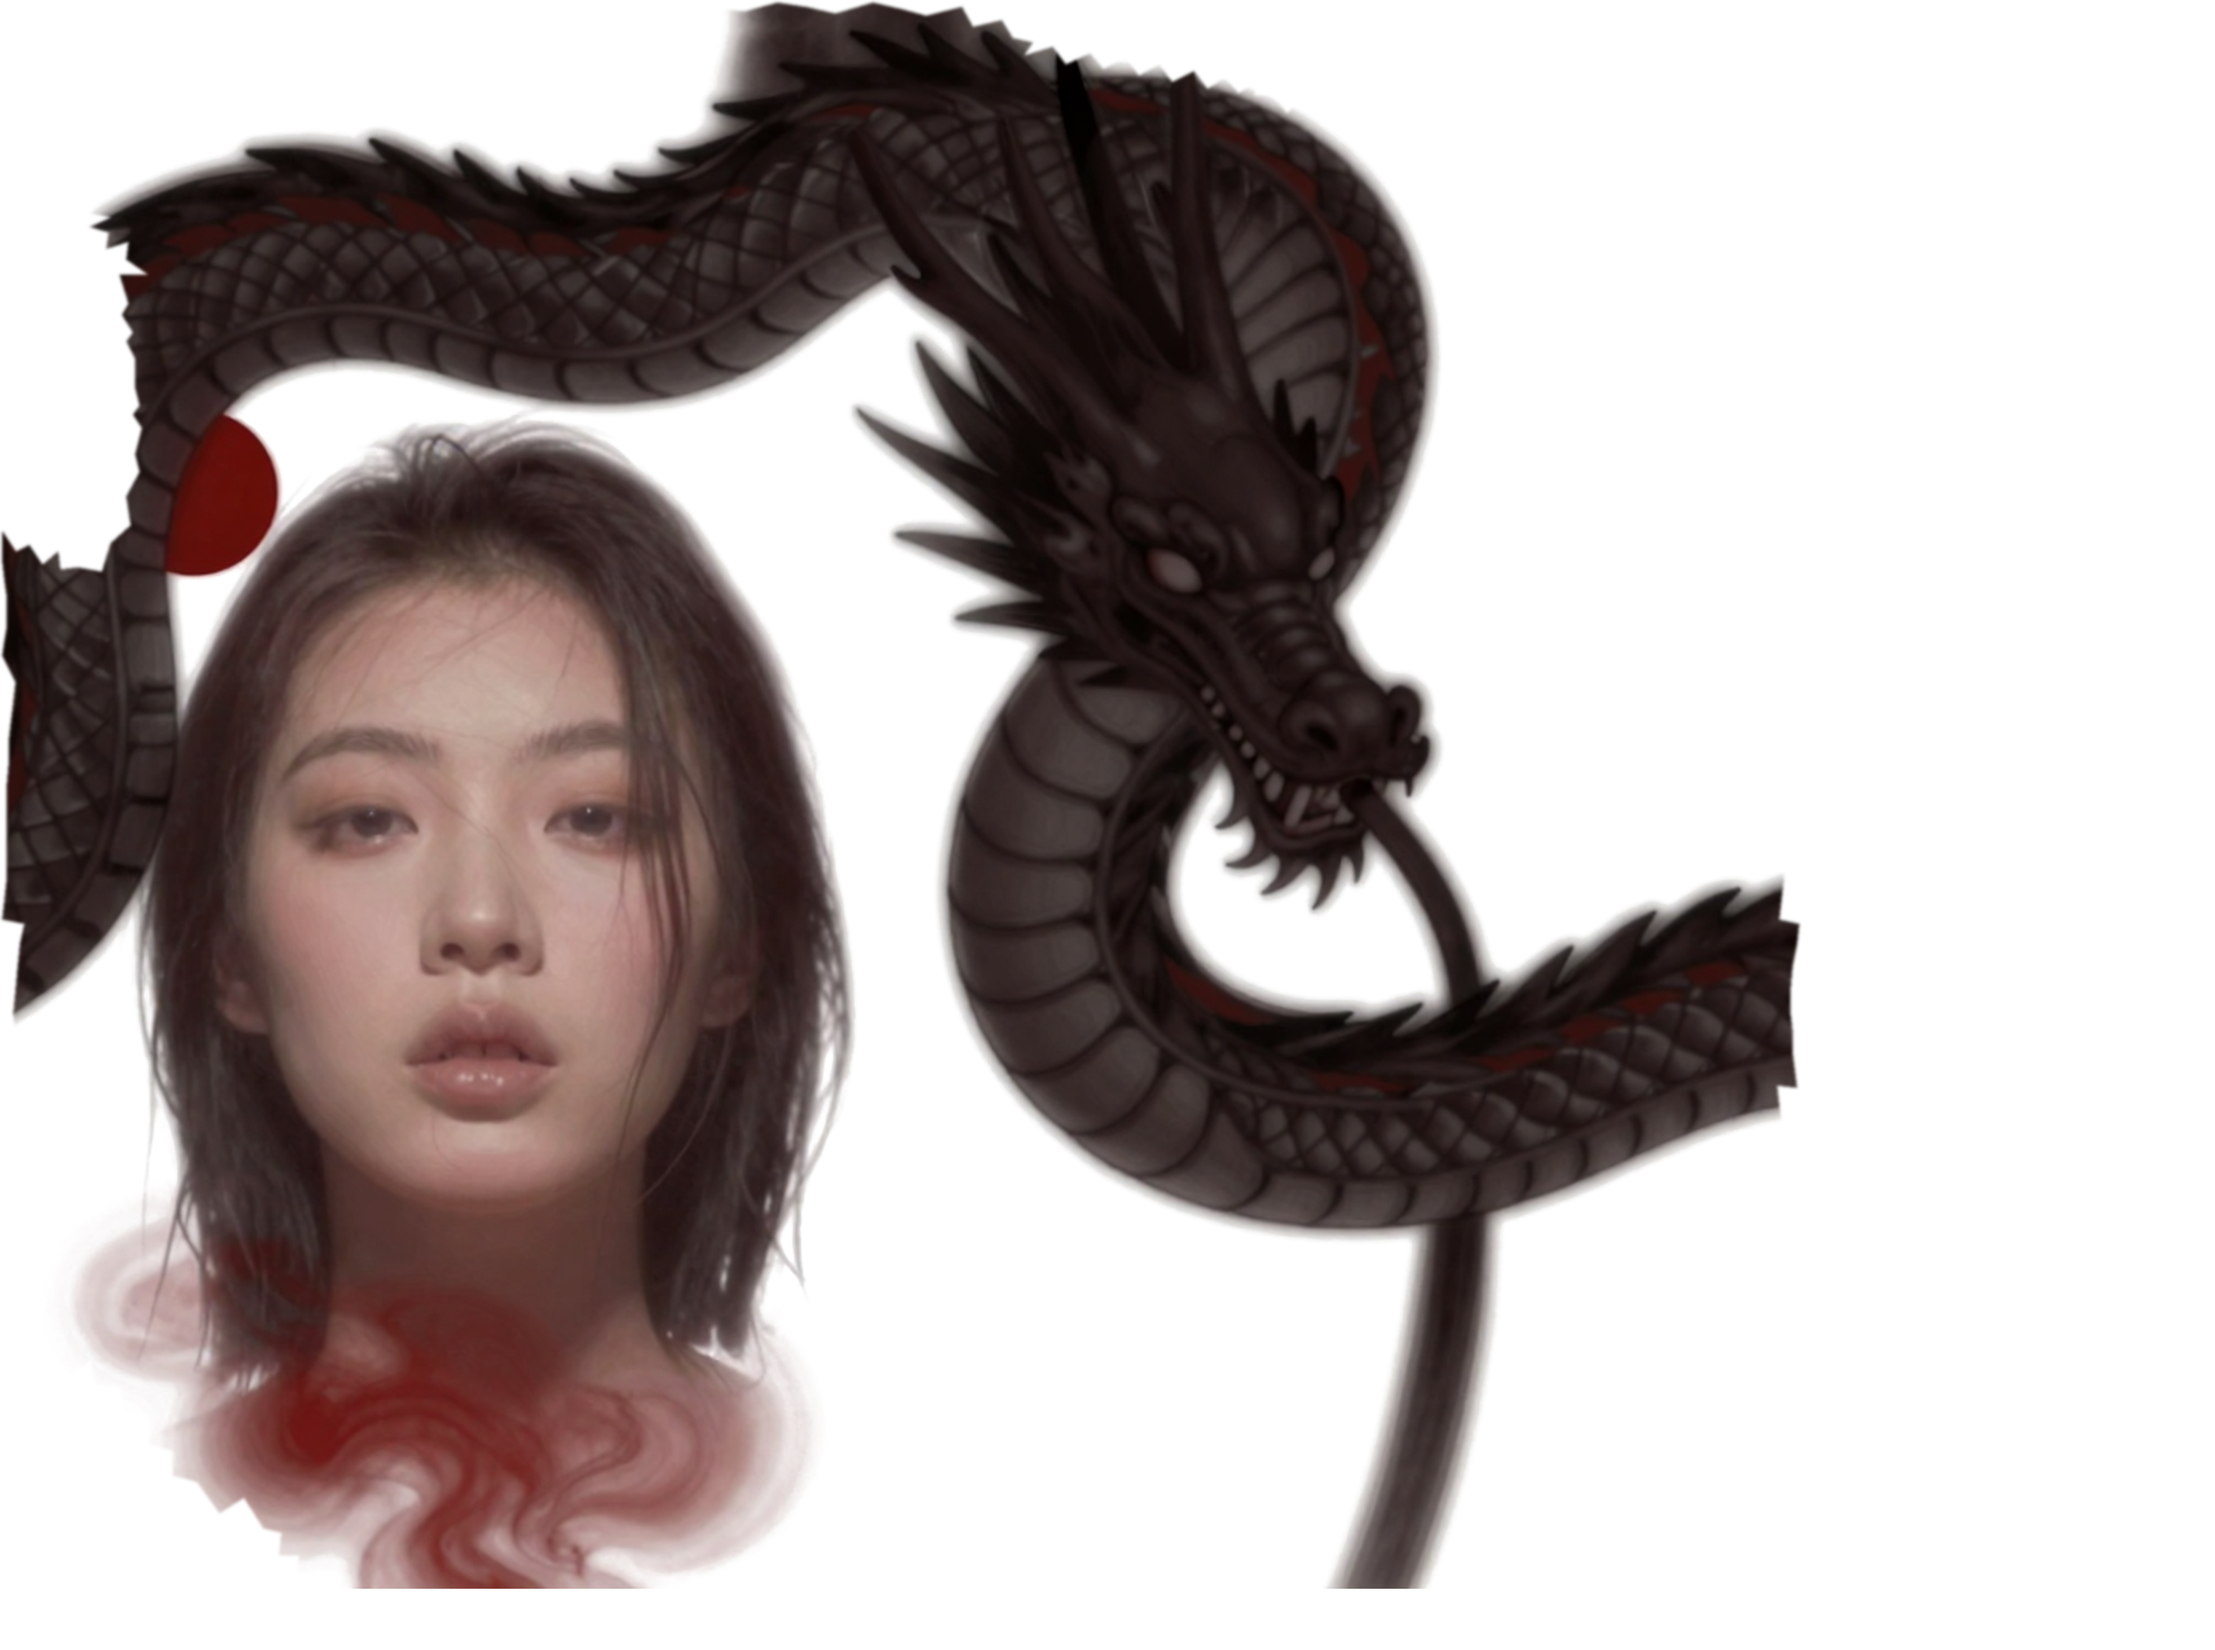
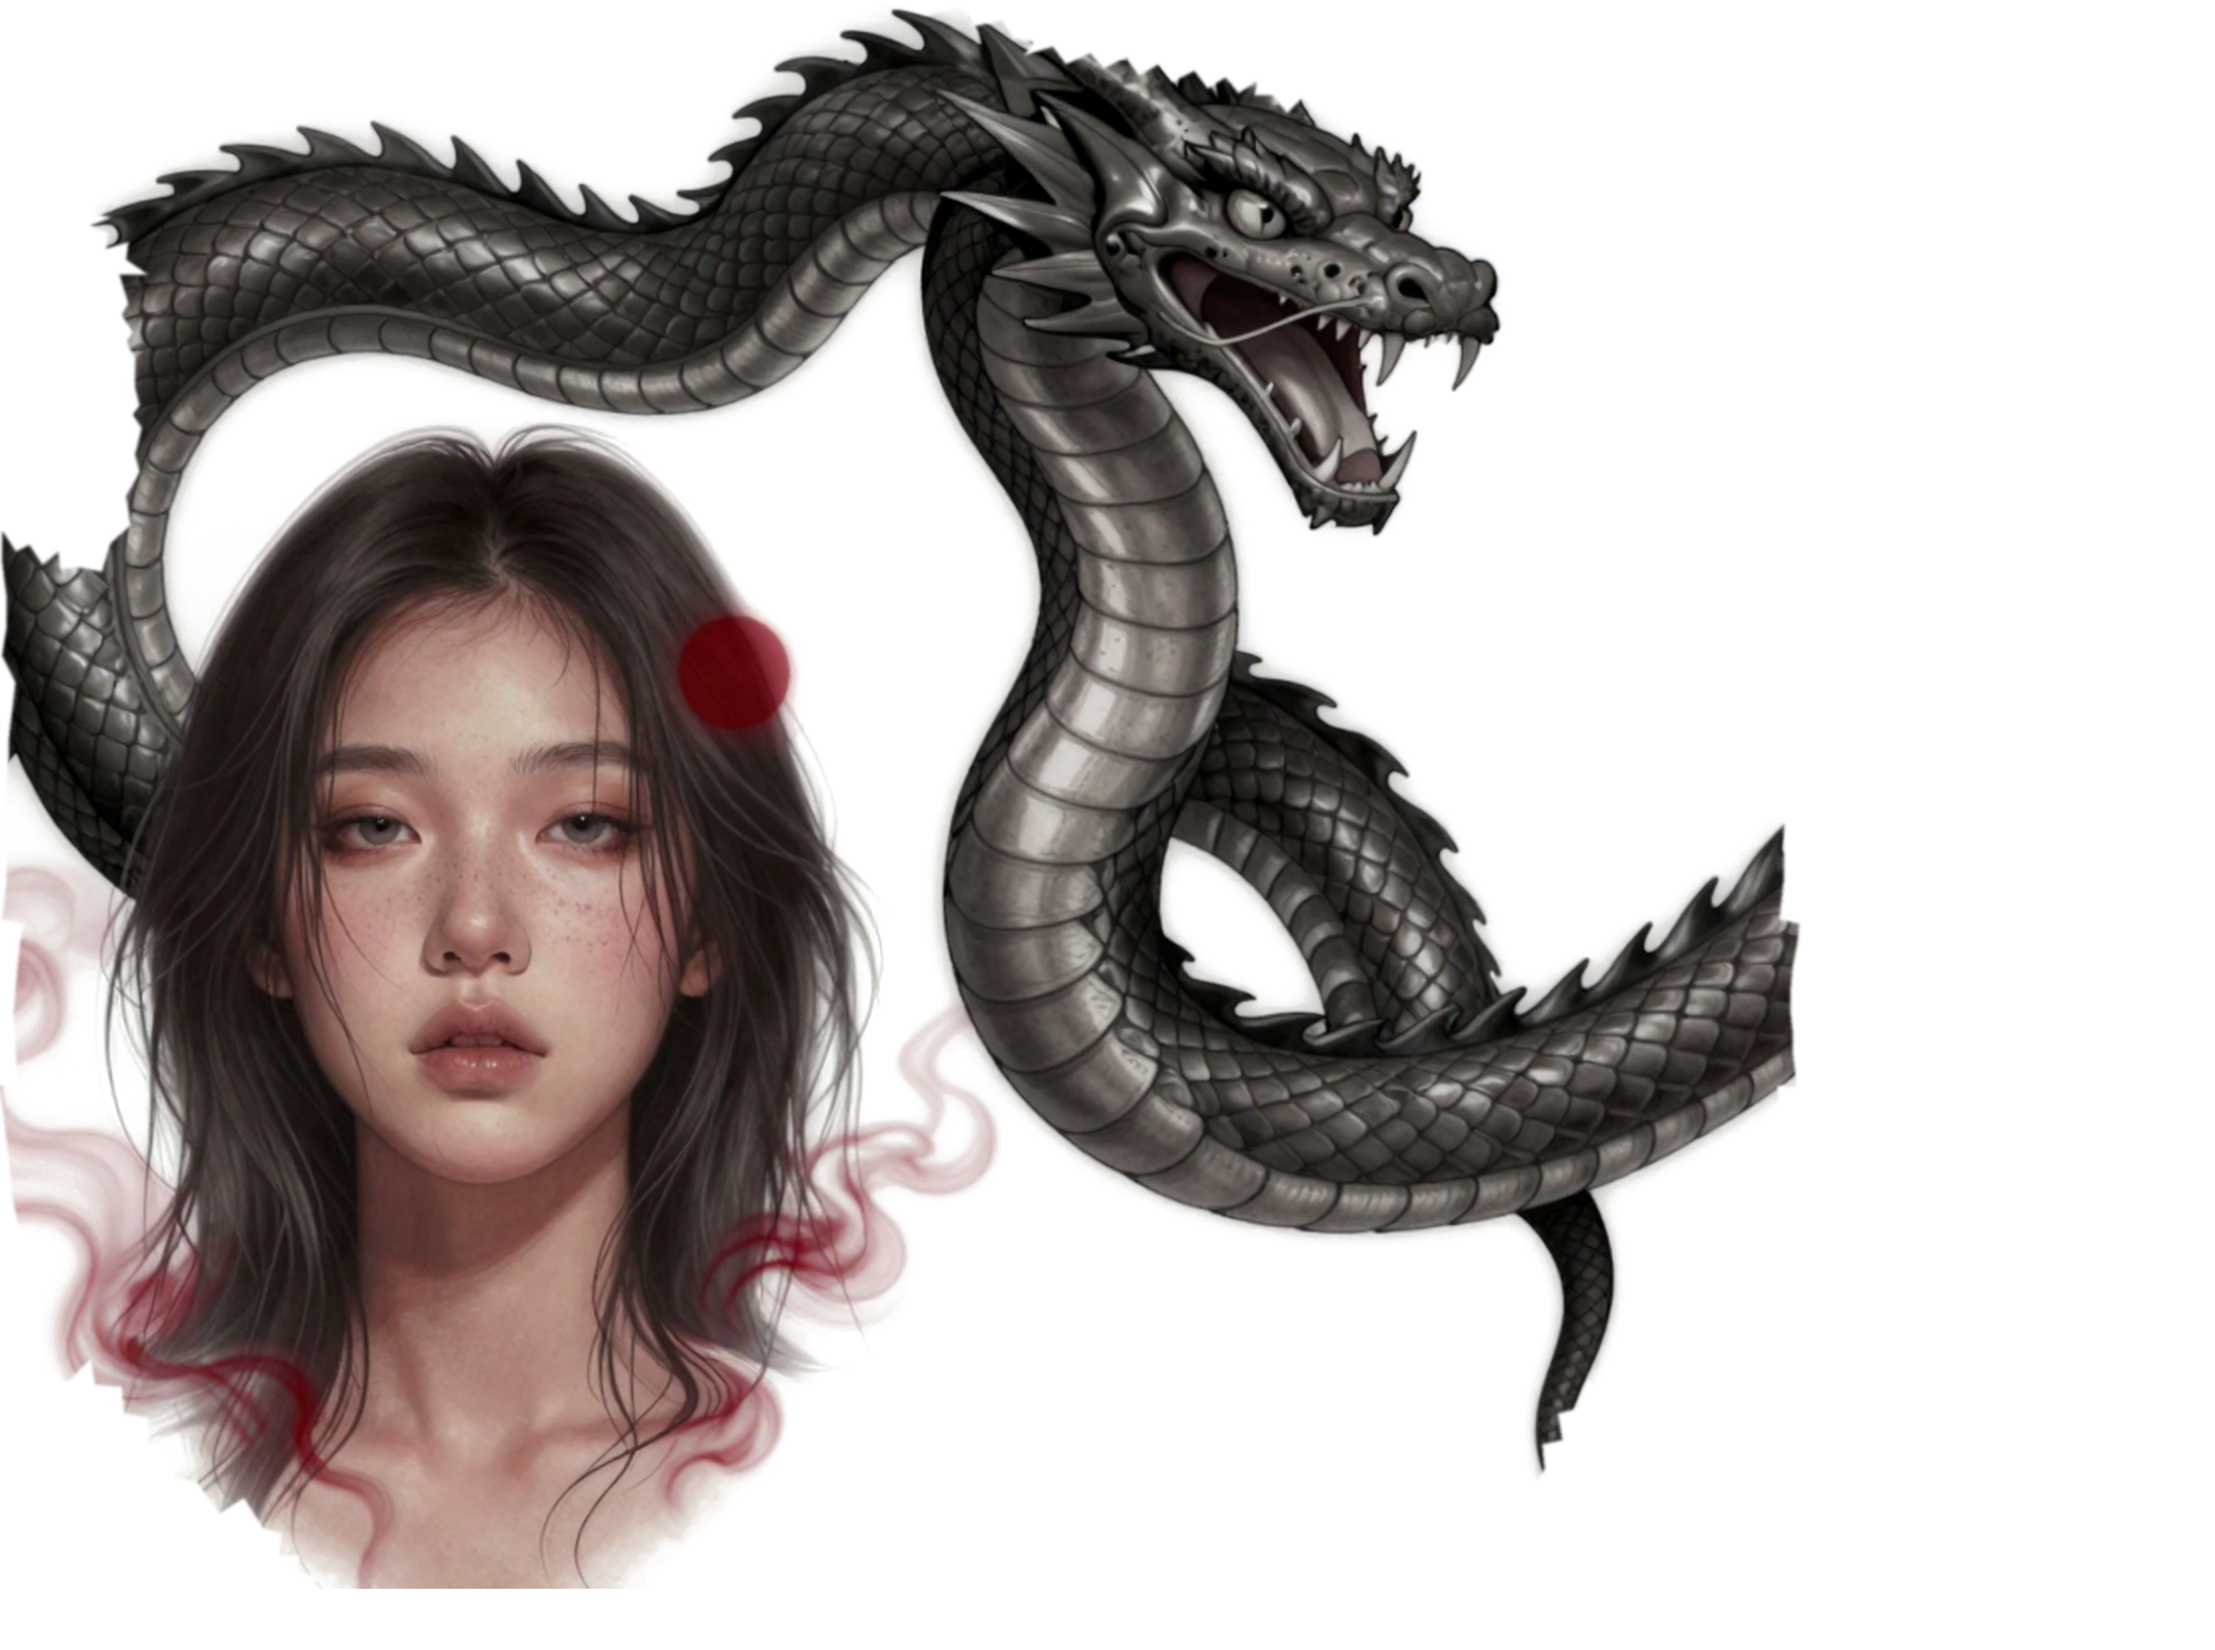
Tutu: round 10 on the body (best so far); bigger moon, viper-like head shape in the preset
Claude-Session: https://claude.ai/code/session_01SVnjTQfE8Du7CnCgFi8Pj9

diff --git a/tutu/comfy_nodes/core.py b/tutu/comfy_nodes/core.py
@@ -80,7 +80,7 @@ LAYOUTS = {
         "canvas": "wrap_torso",
         "shade_head": True,
         "ellipses": [((55, 190, 385, 690), (55, 30, 30)),      # hair, under the dragon's back arc
-                     ((35, 175, 125, 265), (150, 30, 25)),     # red moon, upper left beside the hair
+                     ((15, 150, 175, 310), (150, 30, 25)),     # big red moon behind the hair, upper left (r10: a small one became a red dot on the face)
                      ((70, 265, 350, 525), (170, 120, 105))],  # face wider than tall on the canvas: the curved back narrows it on the body (c3) (r06: a pale cheek ellipse became a white disc -> removed)
         "smoke": [((60, 590, 380, 717), (110, 45, 40))],       # red smoke at the lower back
         "paths": [
@@ -93,7 +93,7 @@ LAYOUTS = {
             # thin tail from the bottom of the coil (r06: starting at the jaws it read as a tongue)
             ([(690, 505), (720, 580), (715, 650), (690, 717)], 30, (45, 30, 30)),
         ],
-        "polygons": [([(455, 75), (545, 50), (645, 100), (680, 190), (630, 255), (565, 305), (510, 290), (470, 200)], (35, 25, 25)),  # head on the right pec (r06 too low, c3 too high on the shoulder)
+        "polygons": [([(460, 85), (555, 55), (640, 110), (700, 215), (650, 240), (565, 300), (505, 285), (470, 195)], (35, 25, 25)),  # long viper-like wedge on the right pec (r10: a chunky head shape got horns)
                      ([(585, 205), (655, 185), (625, 265)], (75, 25, 25))],                                                       # open jaws
     },
     "face_back_dragon_chest": {
